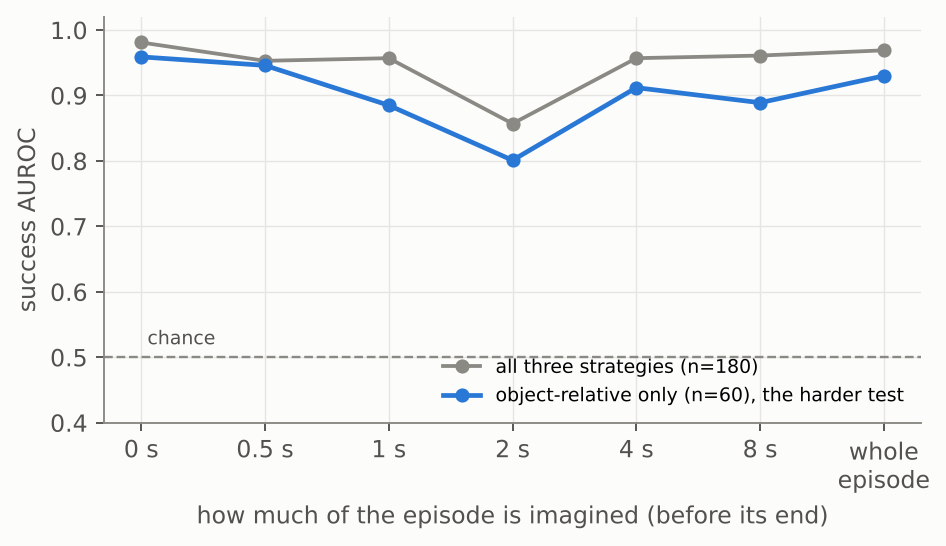
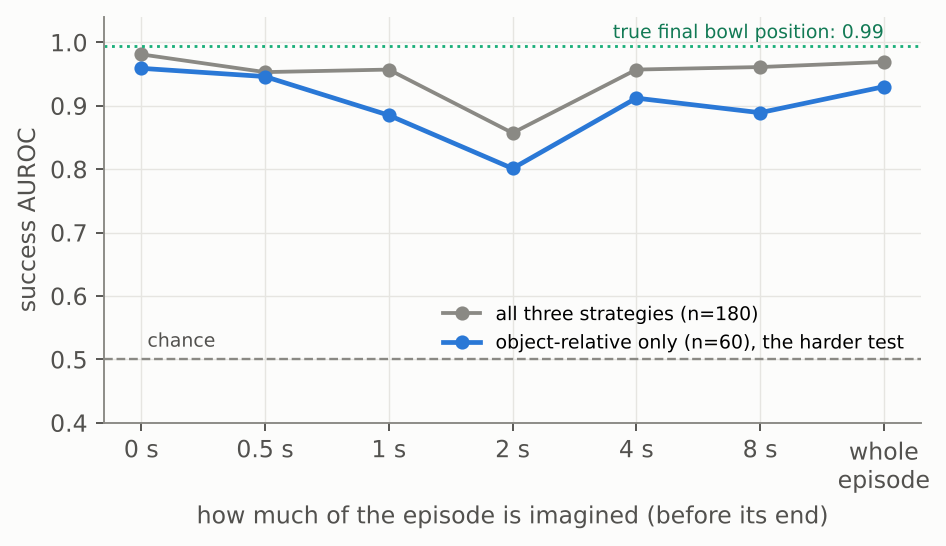
World model section: restore the detailed explanations; whole-README coherence pass
- Q3: the fuller text of the earlier version is back (10 Hz steps, training signal, curriculum up to 15 s
  episodes, the step-by-step "success from imagination" with the AUROC table and the H = 0 / whole-episode
  reading), kept with the new figures; states that all world-model episodes are recorded teacher runs and
  that recorded failures always run 15 s (a length difference at test time)
- plan choice: a post-hoc baseline, "the shortest plan on the nominal arm", reaches 92% [81-97] (within-scene
  AUROC 0.80) against the world model's 78%; the warning sign was in the plans
- coherence: intro, Q2 teacher description (final recipe plans the approach), H1 wording, lessons formatting
  and wording; Table 1 Q3 row
- wm_auroc figure shows the true-bowl ceiling

Claude-Session: https://claude.ai/code/session_01EWSBHkjnTTSpiRutHYYHEd

diff --git a/tools/wm_rl_figures.py b/tools/wm_rl_figures.py
@@ -215,10 +215,14 @@ def wm_auroc():
             label="all three strategies (n=180)")
     ax.plot(range(7), [s["object_relative"]["auroc"][k] for k in keys], "o-", color=BLUE, lw=2, ms=5,
             label="object-relative only (n=60), the harder test")
+    true = json.loads((ROOT / "results" / "wm" / "wm_metrics.json").read_text())["auroc_true_bowl"]
+    ax.axhline(true, color=GREEN, lw=1.2, ls=":")
+    ax.text(6.0, true + 0.012, f"true final bowl position: {true:.2f}", fontsize=8, color="#127a55", ha="right")
     ax.axhline(0.5, color=MUTED, lw=1, ls="--"); ax.text(0.05, 0.52, "chance", fontsize=8, color=INK2)
-    ax.set_xticks(range(7), labels); ax.set_ylim(0.4, 1.02)
+    ax.set_xticks(range(7), labels); ax.set_ylim(0.4, 1.04)
     ax.set_xlabel("how much of the episode is imagined (before its end)"); ax.set_ylabel("success AUROC")
-    ax.legend(frameon=False, fontsize=8, loc="lower right"); ax.grid(color=GRID, lw=0.6); clean(ax, left=True)
+    ax.legend(frameon=False, fontsize=8, loc="lower right", bbox_to_anchor=(1.0, 0.13)); ax.grid(color=GRID, lw=0.6)
+    clean(ax, left=True)
     save(fig, "wm_auroc.png")
 
 

diff --git a/README.md b/README.md
@@ -6,7 +6,7 @@ I recorded my own hand putting a bowl on a plate with an iPhone. This repository
 metric 3D demonstration, retargets it to a Franka Panda in the LIBERO simulator (LIBERO-Goal, *"put the bowl
 on the plate"*), and multiplies it into hundreds of robot demonstrations, each checked by the simulator. On
 that data it trains an imitation policy (ACT), tests whether offline RL can learn from the failed attempts,
-and trains a world model that imagines the robot's camera to judge plans before they run.
+and tests whether a world model that imagines the robot's camera can judge plans before they run.
 
 The question running through the project: **what exactly should be transferred from a human video?** The
 short answer: the contact (where the hand grasps the bowl, how it carries it, where it sets it down), not the
@@ -36,7 +36,7 @@ It sees two 128 px cameras and the arm state; the video is rendered at higher re
 | **How should a human demo be retargeted to the robot's scene?** ([Q1](#q1-retargeting-what-transfers-from-a-human-demo)) | Relative to the objects. Replaying the hand path in fixed coordinates never works. | Scripted replays, 13 demos x 20 scenes: absolute 0% [0-2], object-relative 81% [76-85], intent 100% [99-100] |
 | **How can you tell whether demos are learnable?** ([Q2](#a-quick-check-are-the-demos-learnable)) | Train one policy, then run it averaging its overlapping action predictions. Learnable demos barely notice; demos that teach conflicting moves collapse. | Averaged: 92-100% for every policy trained on learnable demos, 12-48% for those trained on my copied approach (12 runs) |
 | **Does learning from the failed rollouts help?** ([offline RL](#learning-from-failed-rollouts-offline-rl)) | Not measurably: the critic's weights moved failures from grasping to placing. A first +12-point result was evaluation noise. | IQL-weighted 64% [54-73], same data unweighted 60% [50-69], successes only 57% [47-66] |
-| **Can a world model judge a plan before execution?** ([Q3](#q3-world-model-can-it-judge-a-plan-before-execution)) | It judges an action sequence well, but could not yet pick a plan before acting: a feedback controller's actions depend on contacts it never sees. | Success AUROC 0.93 imagining whole held-out episodes from their first frame; choosing among 13 plans: 78% [65-87] vs 71% random and 98% for the best fixed demo |
+| **Can a world model judge a plan before execution?** ([Q3](#q3-world-model-can-it-judge-a-plan-before-execution)) | It judges an action sequence well, but could not yet pick a plan before acting: a feedback controller's actions depend on contacts it never sees. | Success AUROC 0.93 imagining whole recorded episodes of held-out demos from their first frame; choosing among 13 plans: 78% [65-87] vs 71% random, 92% for the shortest plan and 98% for the best fixed demo |
 
 *Policy success is measured on LIBERO's 50 fixed evaluation scenes, which were never used to make training
 data; each rate pools two evaluations of 50 episodes per training seed.*
@@ -167,11 +167,12 @@ side facing the robot, 270° the robot's right.
 
 ### How the robot demonstrations are made
 
-There is no separate planner. The "teacher" that produces robot demonstrations is the retargeted plan,
-executed by a simple feedback controller:
+The "teacher" that produces robot demonstrations is the retargeted plan, executed by a simple feedback
+controller; there is no motion planner:
 
 1. **Plan.** Object-relative retargeting (Q1) of one human demo onto a new scene gives about 30 gripper
-   waypoints (position, wrist angle, open or closed).
+   waypoints (position, wrist angle, open or closed). In the final recipe, the waypoints of the approach to
+   the bowl are replaced by a straight-down approach (see the investigation below).
 2. **Execute.** Every 50 ms, a waypoint follower commands a move towards the current waypoint, proportional
    to the remaining distance, and moves on to the next waypoint once it is close enough (or after a timeout).
    The camera images and the commanded actions are recorded.
@@ -233,7 +234,7 @@ notebook before it ran:
 
 | | Hypothesis | Test | Verdict |
 |---|---|---|---|
-| H1 | **Teacher ceiling:** a student rarely beats its teacher | the scripted teacher's own success in the evaluation scenes | Minor: the teacher with my approach succeeds 95%, which explains at most ~4 of the 32 missing points |
+| H1 | **Teacher ceiling:** a student rarely beats its teacher | the scripted teacher's own success in the evaluation scenes | Minor: the teacher with my approach still succeeds 95% of the time, so it can explain at most ~4 of the 32 points between 66% and 98% |
 | H2 | **Inconsistent grasps:** my demos grasp the rim at different places (86-149°) | train on the 5 demos with similar grasp sides (notebook 08) | A symptom, not the cause: 59%, no better; once the approach is planned, all 10 inconsistent demos reach 98% (notebook 13) |
 | H3 | **The ±1 cm grasp perturbation** used in data generation | its spread compared with the spread across my demos | Likely minor (11° vs 20°); not tested |
 | H4 | **Too-clean demos:** the data never shows corrections | DART noise during generation, on the same scenes (notebook 09) | Not supported: 64% vs 67% |
@@ -296,7 +297,8 @@ moment every time.*
   mine closes at a moment that differs between demos (median 54-72 steps).
 - **Both the path's shape and how it is executed matter, roughly half each** (notebook 15). Walking my path at
   a fixed pace, which also moves the grasp 0.7 cm further inside the rim, gives 82% [73-88]: halfway between my
-  approach (66%) and the planned one (98%), the outcome the fixed prediction called "both contribute". The
+  approach (66%) and the planned one (98%), the outcome that the prediction written before the run called
+  "both contribute". The
   policy still closes at a variable moment and still collapses when its predictions are averaged (34%): a
   sideways path just above the rim leaves it unsure when and where to close. Timing and grasp margin changed
   together and are not separated.
@@ -397,12 +399,16 @@ ended (`tools/wm_rl_figures.py`).*
 A world model predicts what the camera will see after a sequence of robot actions, without running the
 simulator. If it is accurate enough, it can judge a plan before the robot executes it.
 
-**Answer: it judges an action sequence well, but could not yet choose a plan before acting.** Given the
+**Answer: it judges a recorded episode well, but could not yet choose a plan before acting.** Given the
 actions a robot really executed, it tells successful from failed episodes of demos it never saw, from the first
 frame alone. To judge a plan, it first needs the plan's actions, and for a controller that steers by feedback
 these depend on contacts that only happen during execution.
 
 ![the world model judging recorded actions (A) and choosing a plan before acting (B)](assets/wm_two_uses.png)
+
+All world-model episodes are runs of the scripted teacher (Q2's retargeted plans, executed by the waypoint
+follower), not of the ACT policy. The world model works offline on their recordings: it is given one real
+frame and a sequence of actions, and nothing is executed while it imagines.
 
 ### The model
 
@@ -412,21 +418,110 @@ these depend on contacts that only happen during execution.
 predictions at 0.1 s, 3.0 s and 6.7 s (the animation in [Results at a glance](#results-at-a-glance) shows
 the whole episode next to the real camera).*
 
-- **Inputs:** the scene camera the policy also sees (agentview), at 64 x 64 px, and the robot's actions. The robot acts at 20 Hz; the model takes
-  steps of 0.1 s, each consuming two actions (14 numbers), so a 7 s episode is 70 chained predictions instead
-  of 140.
-- **Parts:** an encoder (4 conv layers) compresses a frame into a summary z of 256 numbers; a GRU with 512
-  numbers of memory predicts how z changes with the next actions; a decoder (4 deconv layers) turns z back
-  into a frame; a small bowl head reads the bowl's position (x, y, z) from z. Deterministic: one predicted
-  future per action sequence.
-- **Trained the way it is used:** each training window starts from one real frame and is imagined to its end
-  from the model's own predictions, with a loss at every step. Windows grow from 0.8 s to 3.2 s over the first
-  half of training: short windows teach one step of motion, long ones teach the model not to drift. Losses:
-  reconstruct real frames, match imagined frames and summaries to the real future, and read the true bowl
-  position from both real and imagined summaries.
-- **Data:** 680 training episodes (+80 for validation) from the 10 training demos, successes and failures,
-  all three retargeting strategies. **Test: 180 episodes of the 3 held-out demos**, each retargeted with all
-  three strategies into the same 20 scenes.
+- **Parts.** An encoder (4 conv layers) compresses a 64 x 64 px frame of the scene camera (agentview, the
+  one the policy also sees) into a summary z of 256 numbers. A GRU with 512 numbers of memory predicts how z
+  changes with the next actions. A decoder (4 deconv layers) turns z back into a frame, and a small bowl head
+  reads the bowl's position (x, y, z) from z.
+- **10 Hz.** The robot is controlled at 20 Hz: one 7-number action every 50 ms (gripper move, wrist rotation,
+  open/close). The world model takes steps of 0.1 s, so each of its steps consumes two consecutive actions (14
+  numbers) and predicts the frame 0.1 s later. A 7 s episode is then 70 model steps instead of 140, which
+  halves the number of predictions chained on top of each other.
+- **Deterministic:** one predicted future per action sequence, no uncertainty. Where the outcome is uncertain,
+  such a model predicts something in between, which shows up as blur.
+- **Training signal:** real frames must survive encoder -> decoder; imagined frames must match the real future
+  frames; imagined summaries are pulled towards the encoder's summary of the real future frame; and the bowl
+  head must read the true bowl position (from the simulator) from both real and imagined summaries.
+- **Open-loop training with a curriculum.** Each training example is a window of an episode: the model sees
+  only its first real frame plus the actions, imagines the whole window step by step from its own
+  predictions (as it will at test time), and is penalised at every step. Windows start at 8 steps (0.8 s) and
+  grow steadily to 32 steps (3.2 s) by the middle of training (10k of 20k updates), then stay at 3.2 s. Short
+  windows first teach one step of motion; long windows later teach the model not to drift, which matters
+  because it is later asked to imagine whole episodes of up to 15 s.
+- **Data:** the 600 generated episodes of notebook 02 (object-relative, 10 training demos, successes and
+  failures) plus 160 of the other two strategies, so their kinds of motion are not new to the model: 680 for
+  training, 80 for validation. **Test: 180 new episodes of the 3 held-out demos**, each retargeted with all
+  three strategies into the same 20 fresh scenes.
+
+### How well does it predict?
+
+Starting from a real frame, the world model imagines up to 4 s ahead using the actions that were really
+executed, and its prediction is compared with what happened (1226 start points: one per second of every test
+episode, wherever 4 s remain). Two simple baselines and a ceiling put the numbers in context:
+
+| Seconds imagined ahead | 0.1 | 1 | 2 | 4 |
+|---|---|---|---|---|
+| **Image similarity to the real frame** (PSNR, dB; higher is better) | | | | |
+| world model: its imagined frame | 30.3 | 27.9 | 26.9 | 25.3 |
+| baseline "nothing moves": the start frame itself | 39.1 | 28.7 | 25.9 | 22.9 |
+| ceiling: the real frame passed through encoder and decoder | 30.7 | 30.1 | 29.9 | 29.0 |
+| **Bowl position error while the bowl is moving** (cm; lower is better) | | | | |
+| world model: bowl read from its imagined state | - | 5.4 | 6.3 | 6.0 |
+| baseline "the bowl stays where it was" | - | 5.6 | 7.7 | 11.3 |
+
+PSNR compares pixels: 30 dB is an average pixel error of about 3% of full brightness, 25 dB about 6%, 23 dB
+about 7%. Bowl rows only count start points where the bowl has moved more than 2 cm by that time (none at
+0.1 s), otherwise "stays where it was" would be trivially right. The same numbers, at every horizon:
+
+![prediction error against how far ahead the world model imagines, with baselines](assets/wm_prediction.png)
+
+- **Short horizons favour the "nothing moves" baseline.** In 0.1 s the scene hardly changes, so the start
+  frame is almost a perfect prediction (39 dB). The model's frame is worse (30.3 dB) but only 0.4 dB below
+  the ceiling: at short horizons its error is the blur of its autoencoder (every frame squeezed through 256
+  numbers), not wrong motion.
+- **From about 1.4 s on, the model beats "nothing moves"**, and the margin grows (25.3 vs 22.9 dB at 4 s): it
+  predicts where the arm and the bowl go.
+- **The gap to the ceiling grows from 0.4 to 3.7 dB over 4 s.** Each imagined step builds on the previous one,
+  so small errors compound.
+- **The bowl:** assuming it stays put is off by 11 cm after 4 s of carrying; the model by 6 cm, and its error
+  does not grow with the distance travelled: it knows the bowl travels with the gripper. Its reading of a
+  carried bowl is coarse, though (4-6 cm; at 64 px the bowl is small and partly hidden by the gripper), which
+  is more than LIBERO's 3 cm success tolerance.
+
+### Success from imagination
+
+To judge an episode, take the real frame H seconds before its end, then imagine the remaining H seconds from
+the recorded actions alone: every step in between is predicted from the model's own previous prediction, with
+no further real frames. What is imagined is the model's internal summary, from which both a frame and the bowl
+position can be read; for scoring, only the bowl position at the last step is used. The score is the
+horizontal distance from that imagined bowl to the plate centre (the plate does not move). AUROC is the
+probability that a random successful episode gets a smaller distance than a random failed one (0.5 = chance,
+1 = perfect; the true final bowl position gives 0.99). H = 0 imagines nothing: it reads the bowl from the real
+last frame, which tests the bowl reading alone. "Whole episode" imagines everything from the first frame.
+Episodes shorter than H are imagined from their first frame; most successes last 5-7 s, so at 8 s they are
+imagined whole.
+
+| Imagined before the end | 0 | 0.5 s | 1 s | 2 s | 4 s | 8 s | whole episode |
+|---|---|---|---|---|---|---|---|
+| AUROC, all strategies (n=180) | 0.98 | 0.95 | 0.96 | 0.86 | 0.96 | 0.96 | 0.97 |
+| AUROC, object-relative only (n=60) | 0.96 | 0.95 | 0.89 | 0.80 | 0.91 | 0.89 | **0.93** |
+
+<img src="assets/wm_auroc.png" width="620" alt="success AUROC against how much of the episode is imagined">
+
+- **The object-relative row is the harder test.** Within one strategy, successes and failures look alike,
+  whereas across strategies "absolute never moves the bowl" is easy to see.
+- **Imagining the whole episode costs little:** 0.93, against 0.96 when the bowl is read from the real last
+  frame.
+- **The dip at 2 s was not tested.** A plausible cause: 2 s before the end the bowl is usually held in the
+  gripper above the plate, partly hidden, which is exactly where the bowl reading is least accurate; imagining
+  from earlier frames starts from a clear view of the bowl.
+- **Recorded episodes give away their length.** LIBERO ends an episode the moment it succeeds, so every
+  failure runs the full 15 s and every success stops earlier, and the model imagines failures for longer.
+  Reading success from the imagined bowl, not from a trained success head (see below), keeps this out of
+  training, but it remains a difference between successes and failures at test time. These numbers measure
+  how well the model judges a recorded episode; choosing a plan before acting is harder (next section).
+
+**Judging the retargeting strategies** (whole episodes, from the first frame and the executed actions).
+"Predicted" counts the episodes whose imagined final bowl lies within 3.2 cm of the plate centre (a threshold
+chosen on the validation episodes):
+
+| Strategy (held-out demos, 60 episodes each) | True success | Predicted by the world model |
+|---|---|---|
+| intent | 97% | 80% |
+| object-relative | 57% | 32% |
+| absolute | 0% | 0% |
+
+It ranks the strategies in the true order, on demos it never saw, but is pessimistic: its coarse reading of
+the bowl (see above) turns narrow successes into predicted failures.
 
 <details>
 <summary>Why success is read from the imagined bowl, not from a "success" head</summary>
@@ -441,71 +536,6 @@ the plate centre) cannot take that shortcut.
 
 </details>
 
-### How well does it predict?
-
-Starting from a real frame of a test episode, the model imagines up to 4 s ahead with the actions that were
-really executed, and is compared with what happened (1226 start points: one per second of every test episode,
-wherever 4 s remain).
-
-![prediction error against how far ahead the world model imagines, with baselines](assets/wm_prediction.png)
-
-- **Image:** over 0.1 s almost nothing moves, so copying the start frame is the better prediction there, and
-  the model is only 0.4 dB below its ceiling: its error is the blur of squeezing a frame through 256 numbers,
-  not wrong motion. From about 1.4 s on it beats "nothing moves", by 2.4 dB at 4 s: it predicts where the arm
-  and the bowl go. Its gap to the ceiling grows from 0.4 to 3.7 dB over 4 s, as small errors compound.
-- **Bowl:** the model's error stays at 5-6 cm while "the bowl stays put" grows to 11 cm: it knows the bowl
-  travels with the gripper. But 5-6 cm is more than LIBERO's 3 cm success tolerance (at 64 px the bowl is
-  small and partly hidden by the gripper), which makes its success calls pessimistic (next section).
-
-<details>
-<summary>The numbers</summary>
-
-| Seconds imagined ahead | 0.1 | 1 | 2 | 4 |
-|---|---|---|---|---|
-| **Image similarity to the real frame** (PSNR, dB; higher is better) | | | | |
-| world model: its imagined frame | 30.3 | 27.9 | 26.9 | 25.3 |
-| baseline "nothing moves": the start frame itself | 39.1 | 28.7 | 25.9 | 22.9 |
-| ceiling: the real frame passed through encoder and decoder | 30.7 | 30.1 | 29.9 | 29.0 |
-| **Bowl position error while the bowl is moving** (cm; lower is better) | | | | |
-| world model: bowl read from its imagined state | - | 5.4 | 6.3 | 6.0 |
-| baseline "the bowl stays where it was" | - | 5.6 | 7.7 | 11.3 |
-
-PSNR compares pixels: 30 dB is an average pixel error of about 3% of full brightness, 25 dB about 6%, 23 dB
-about 7%. Bowl rows only count start points where the bowl has moved more than 2 cm by that time (none at
-0.1 s), otherwise "stays where it was" would be trivially right (`results/wm/wm_metrics.json`).
-
-</details>
-
-### Judging an action sequence
-
-To score an episode, the model imagines it from its first frame and the actions that were executed; the score
-is the horizontal distance from the imagined bowl at the end to the plate centre. On the 180 test episodes
-this separates successes from failures with an AUROC of 0.97, and of 0.93 within object-relative alone, the
-harder test, because there successes and failures look alike (AUROC: the probability that a random success
-gets a smaller distance than a random failure; 0.5 is chance, and the true final bowl position gives 0.99).
-Counting an episode as a predicted success when its imagined bowl ends within 3.2 cm of the plate centre (a
-threshold chosen on the validation episodes):
-
-| Strategy (held-out demos, 60 episodes each) | True success | Predicted by the world model |
-|---|---|---|
-| intent | 97% | 80% |
-| object-relative | 57% | 32% |
-| absolute | 0% | 0% |
-
-It ranks the strategies in the true order, on demos it never saw, but it is pessimistic: its coarse reading
-of the bowl turns narrow successes into predicted failures.
-
-<details>
-<summary>Imagining only the end of the episode</summary>
-
-Starting the imagination later (from the real frame H seconds before the end) gives the same picture, with
-one dip at 2 s. Its cause was not tested; a plausible one: 2 s before the end the bowl is usually held in the
-gripper above the plate, partly hidden, which is exactly where the bowl reading is least accurate.
-
-![success AUROC against how much of the episode is imagined](assets/wm_auroc.png)
-
-</details>
-
 ### Choosing a plan before acting (notebook 07)
 
 Can the world model make a decision, not just rank strategies? In each of the 50 evaluation scenes the robot
@@ -513,27 +543,36 @@ has 13 candidate plans: the object-relative retargeting of each main demo, with 
 perturbation as in data generation. The world model must pick one before anything is executed. It needs the
 action sequence of each plan, but the waypoint follower computes actions by feedback on the gripper pose, so
 the sequence is produced against a nominal model of the arm (how the gripper moves for a given command, fitted
-on free motion; `tools/fit_arm_model.py`). The world model imagines each sequence from the scene's real first
-frame, and the candidate whose imagined bowl ends closest to the plate is executed. All 650 candidates were
-also run in the simulator, only to score the choice (`results/plan_select/`):
+on free motion; `tools/fit_arm_model.py`). The arm model knows the arm, not the bowl or the cabinet. Every
+sequence ends where the gripper opens at the place point, so here no sequence gives away its outcome by its
+length. The world model imagines each sequence from the scene's real first frame, and the candidate whose
+imagined bowl ends closest to the plate is executed. All 650 candidates were also run in the simulator, only
+to score the choice (`results/plan_select/`):
 
 | Rule for choosing one of the 13 candidates | Success (50 scenes) |
 |---|---|
 | oracle: some candidate succeeds | 100% |
 | always the demo with the best generation yield (`65ee`), fixed in advance | 98% |
+| the plan that takes the fewest steps on the nominal arm (rule added after the run) | 92% [81-97] |
 | world model on the nominal action sequences | **78%** [65-87] |
 | a random candidate (average over the 13) | 71% |
 
 ![per demo: how often its plan works and how often the world model chose it](assets/wm_plan_choice.png)
 
-- **The world model barely beats a random choice (+7 points, not significant) and loses clearly to a fixed
-  rule.** Within a scene it separates working from failing candidates only weakly (AUROC 0.69, against 0.93
-  on the test episodes above). It does avoid the worst demo (`a4558`, 6%, never picked).
-- **Why: its input, not its imagination.** `c521`'s arm stalls on its approach in the simulator (all its
-  failures run the full 300 steps); on the nominal arm it does not, so the world model imagines a success
-  (median 2.2 cm from the plate centre) and picked `c521` in 4 scenes, all failures. It is also overconfident
-  in `17c2` (picked 14 times, 9 successes). The stall comes from copying my approach path: intent, which
-  plans its own path to the same grasp side, succeeds with `c521` in 20 of 20 scenes (Q1).
+- **The world model barely beats a random choice (+7 points, not significant) and loses clearly to two
+  simple rules.** Within a scene it separates working from failing candidates only weakly (AUROC 0.69, against
+  0.80 for the plan's length alone and 0.93 on the recorded episodes above). It does avoid the worst demo
+  (`a4558`, 6%, never picked).
+- **Why: it judges each plan as if it ran exactly as planned.** `c521`'s arm stalls on its approach in the
+  simulator (all its failures run the full 300 steps); on the nominal arm it does not, so the world model
+  imagines a success (median 2.2 cm from the plate centre) and picked `c521` in 4 scenes, all failures. It is
+  also overconfident in `17c2` (picked 14 times, 9 successes). The stall comes from copying my approach path:
+  intent, which plans its own path to the same grasp side, succeeds with `c521` in 20 of 20 scenes (Q1).
+- **The warning sign was in the plans.** The plans that stall or collide are long and indirect on the nominal
+  arm too: `a4558` (median 180 steps) and `c521` (154) are among the four longest, `65ee` is the shortest
+  (120). Picking the shortest plan therefore reaches 92%, without any learning; the world model, which only
+  asks where the bowl ends, does not use this. The rule was found after the run, and it matches Q2: direct
+  motions are the ones that work.
 - **A tempting diagnostic is not valid.** Fed the executed actions instead, the same choice rule reaches 98%.
   But executed actions already contain the outcome: after a collision or a stall the follower's corrections
   differ from the plan, and how much they differ from the nominal actions predicts success on its own (AUROC
@@ -549,11 +588,10 @@ two learning methods tried on top of imitation, offline RL and a world model, he
 
 ### Learning from human video: a recipe
 
-
 A phone video of a human hand is a good source of robot data, but not as a trajectory to copy. What it
 contains that a robot cannot easily work out on its own is the intent at contact: where to take hold of the
 object, how to carry it, and where to put it down. How the hand travelled through free space is the part to
-leave behind. In this project, robots trained on data that copied my whole motion succeeded 57-67% of the
+leave behind. In this project, policies trained on data that copied my whole motion succeeded 57-67% of the
 time; keeping my grasp point, carry and place point but planning the approach to the bowl raised that to 98%
 (with all 10 demos, and over two training seeds in a controlled comparison), as good as a policy trained on 49
 teleoperated demonstrations (97%).
@@ -573,8 +611,8 @@ What this suggests as a recipe for learning from human video:
 3. **Check that the human's choices suit the robot.** When I grasped naturally, I took the bowl on the side
    facing me or on my right, sides the arm handles badly in this scene (0 of 20 on the right side), so the
    recordings had to follow a simple protocol: grasp the left rim. One of my carry paths swept through the
-   place where the robot's scene has a cabinet. Human demonstrations carry assumptions about the human's body and room; the simulator catches them, but
-   only if every generated episode is checked there.
+   place where the robot's scene has a cabinet. Human demonstrations carry assumptions about the human's body
+   and room; the simulator catches them, but only if every generated episode is checked there.
 4. **Let the simulator multiply and verify.** Ten demonstrations became 438 verified robot episodes, and my
    per-demo predictions of how many would succeed held. This is what makes a handful of phone recordings
    enough; it does not make bad data good. Nine times more data of the copied kind moved the policy only from
@@ -610,13 +648,14 @@ them.**
 
 - It works where success is decided by coarse facts visible at 64 px: did the bowl move with the gripper, and
   where did it end up. From the first frame and the executed actions it separates successful from failed
-  episodes of unseen demos (AUROC 0.93 within one strategy) and ranks the strategies correctly.
+  recorded episodes of unseen demos (AUROC 0.93 within one strategy) and ranks the strategies correctly.
 - Its probabilities are not calibrated (it is pessimistic, because its bowl reading is off by more than the
   3 cm tolerance), and it does not resolve millimetre contact events such as a rim pinch that slips. For the
   same reason it was not used to train the policy: imagined rollouts with a 6 cm bowl error cannot teach a
   millimetre grasp.
 - Choosing a plan for a feedback controller needs the controller inside the imagination: the actions of such
   a plan depend on contacts, and a world model that is only given planned actions never sees them.
+- Compare a learned critic with simple rules: here the plan's length alone chose better (92% vs 78%).
 
 ## Limitations and next steps
 
